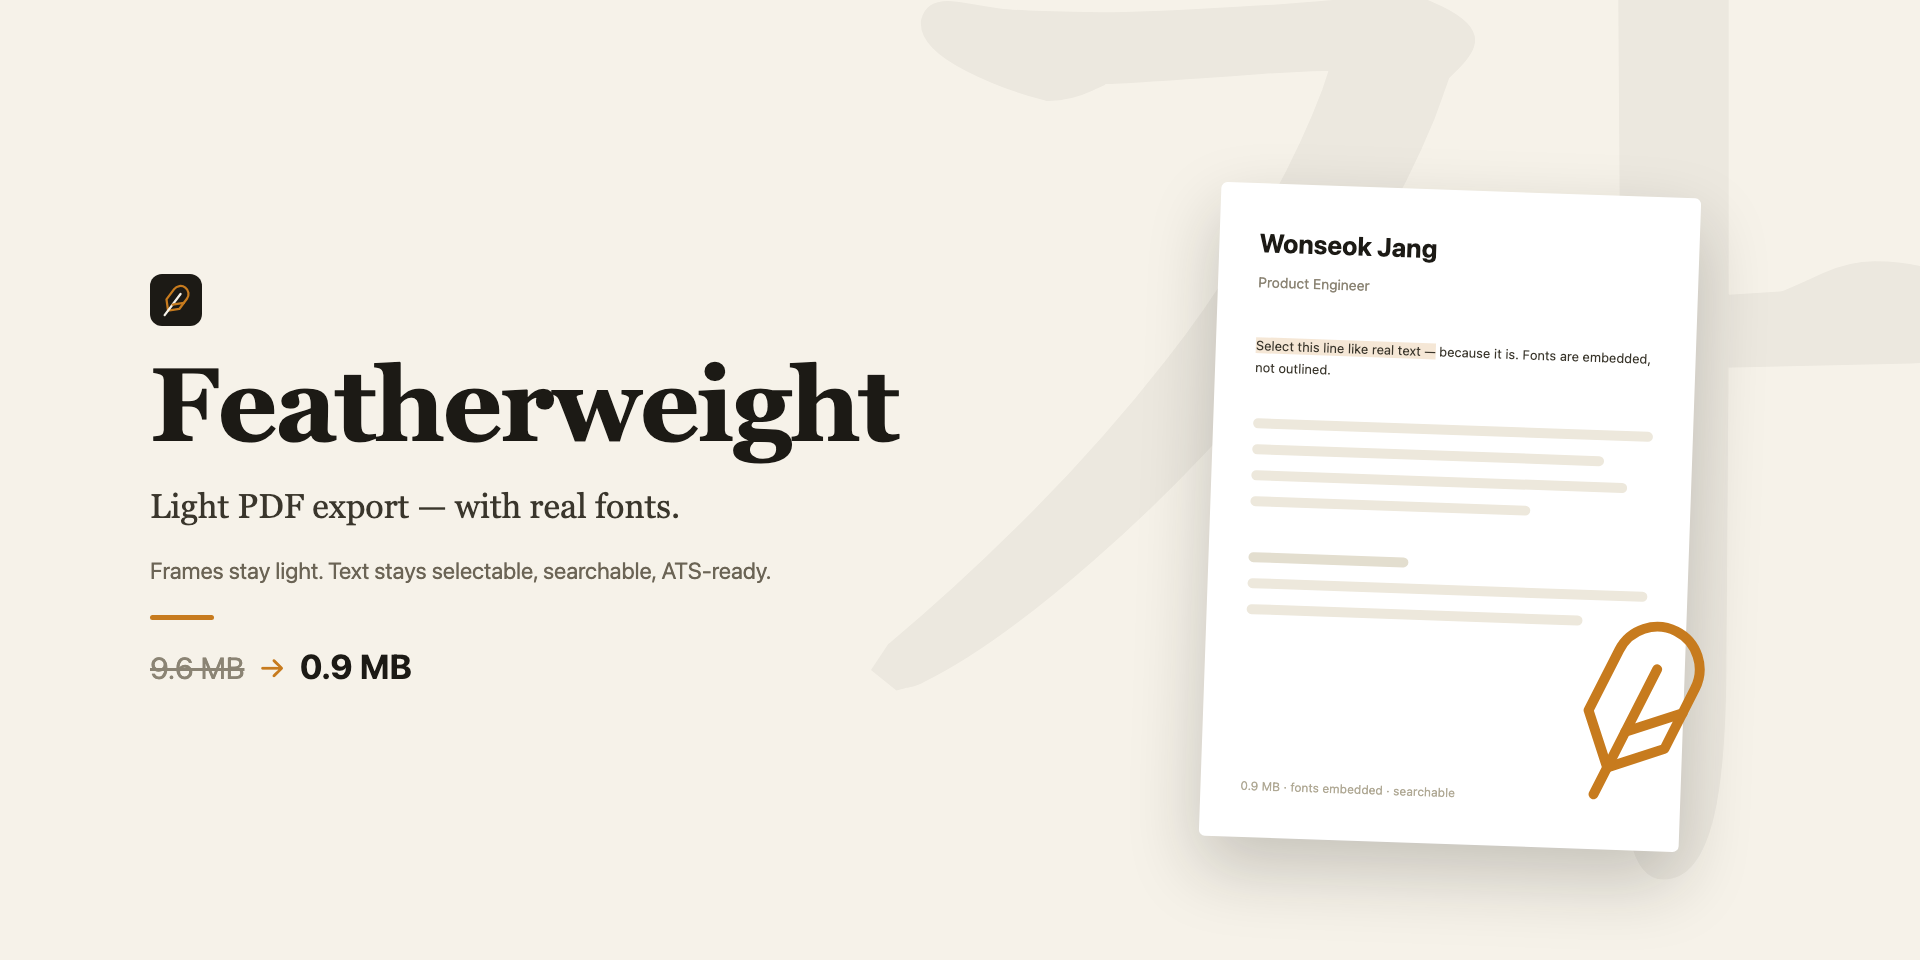
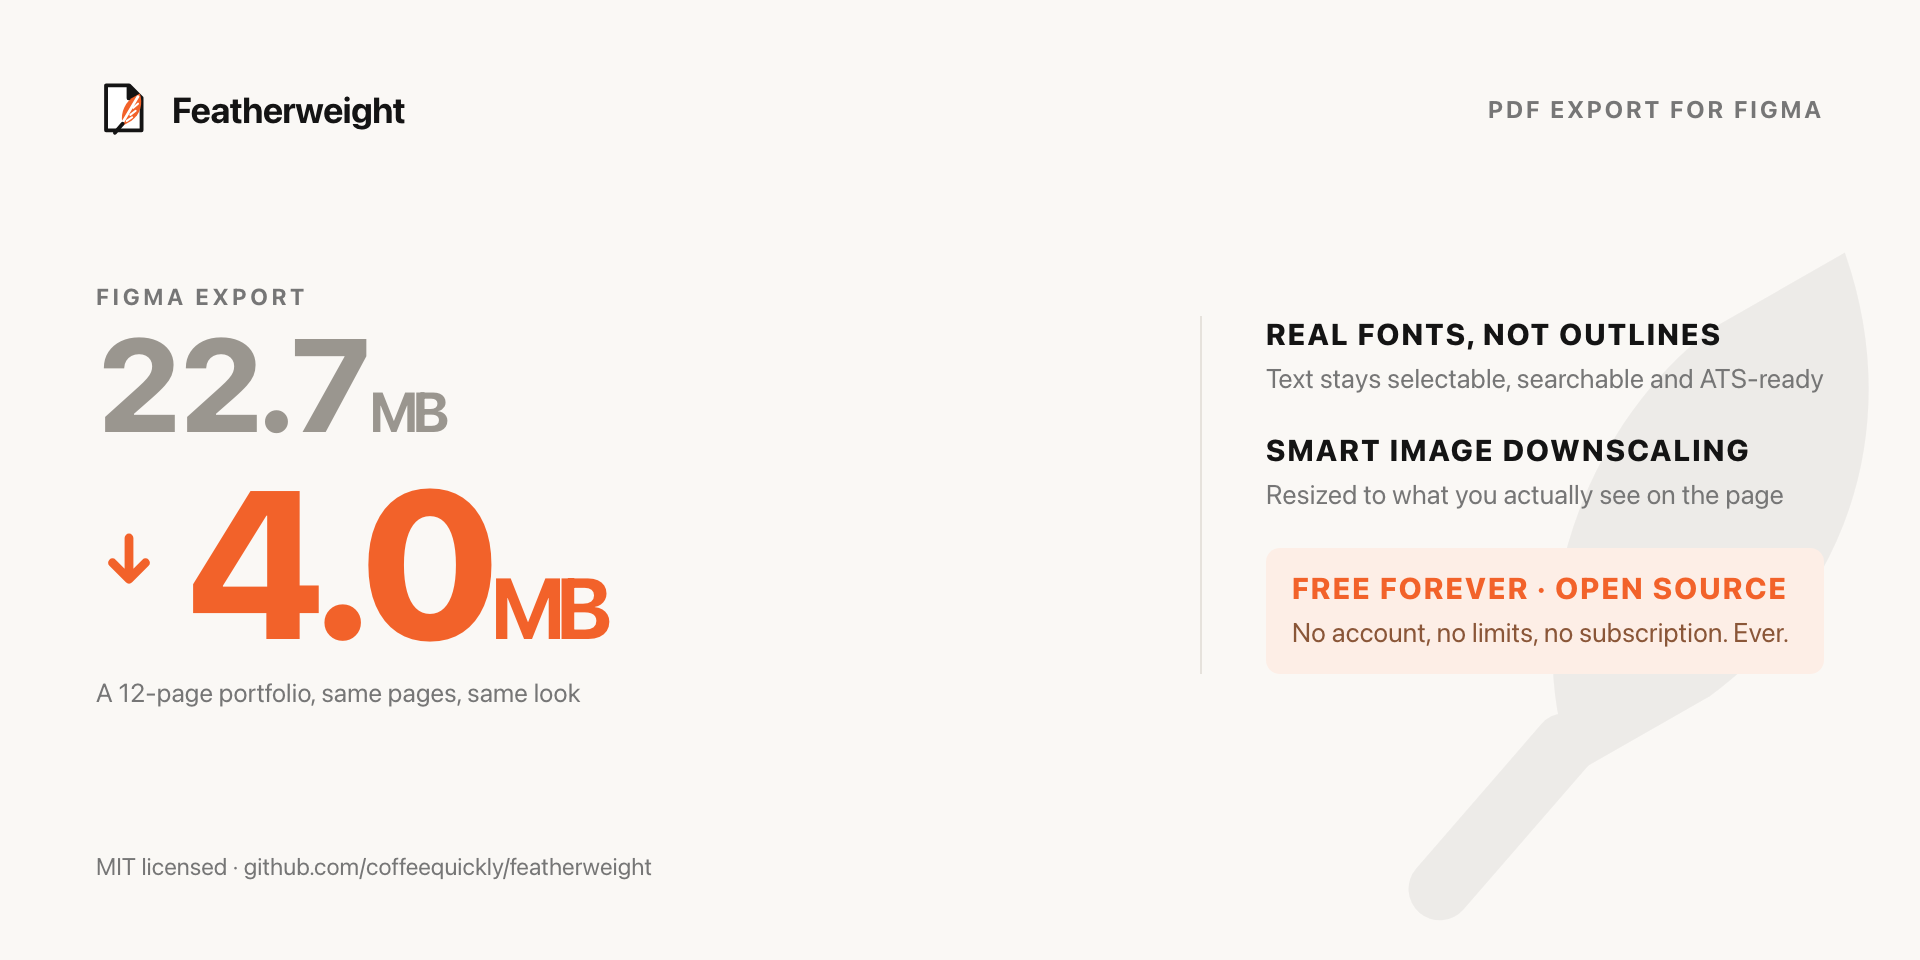
feat(brand): 아이덴티티 개편 — 문서+깃털 아이콘, 숫자 중심 커버, 최신 UI 캡처
- 아이콘: 깃털 단독은 "가볍다" 만 말하고 PDF 를 말하지 못했다. 접힌 문서 모서리를
  붙여 썸네일 크기에서도 "PDF 내보내기" 가 읽히게 한다. 비대칭 실루엣과 깃가지로
  잎사귀가 아니라 깃털로 보이게 다듬음 (32px 축소본까지 확인)
- 커버: 워드마크 대신 22.7MB → 4.0MB 를 전면에. Community 그리드에서 작게 뜰 때
  숫자가 가장 잘 읽힌다
- "Free forever · open source" 를 커버와 다크 보드에 명시 — 이 카테고리 경쟁작이
  대부분 구독형 유료라 실질적인 차별점이다
- 미디어 5장을 v1.0.5 실제 UI 로 재촬영 (영문, 경고 배너 없는 상태)
- 팔레트를 앰버에서 비비드 오렌지(#F2622A)로 — 라이트·다크 양쪽에서 잘 튄다
- 소스 HTML 을 docs/brand/src/ 에 남겨 언제든 재생성 가능하게
- ui-preview 에 ?fonts=ready 추가 (마케팅 캡처용 상태)

Claude-Session: https://claude.ai/code/session_012GnoKncjHsV7GbHB5Xy7mz

diff --git a/docs/brand/src/cover.html b/docs/brand/src/cover.html
@@ -1,0 +1,58 @@
+<!doctype html><html><head><meta charset="utf-8"><link rel="stylesheet" href="tokens.css"></head><body>
+<div style="position:relative;width:1920px;height:960px;background:var(--cream);padding:80px 96px;display:flex;flex-direction:column;justify-content:space-between;overflow:hidden">
+
+  <!-- 배경 워터마크 깃털 -->
+  <svg style="position:absolute;right:-120px;top:40px;opacity:0.05" width="900" height="900" viewBox="0 0 98 98" fill="none">
+    <g transform="translate(19 20) scale(1.05)">
+      <path d="M55 3 C61 20 56 38 41 49 L27 57 C21 42 27 22 41 11 Z" fill="#141414"/>
+      <path d="M26 54 L13 69" stroke="#141414" stroke-width="6.5" stroke-linecap="round"/>
+    </g>
+  </svg>
+
+  <div style="position:relative;display:flex;justify-content:space-between;align-items:center">
+    <div style="display:flex;align-items:center;gap:18px">
+      <svg width="58" height="58" viewBox="0 0 98 98" fill="none" style="flex:0 0 auto">
+  <path d="M17 9 H56 L77 30 V85 H17 Z" fill="#fff" stroke="#141414" stroke-width="6.5" stroke-linejoin="round"/>
+  <path d="M55 9 V31 H77" fill="#141414" stroke="#141414" stroke-width="6.5" stroke-linejoin="round"/>
+  <g transform="translate(19 20)">
+    <path d="M55 3 C61 20 56 38 41 49 L27 57 C21 42 27 22 41 11 Z" fill="#F2622A"/>
+    <path d="M52 20 L44 27 M48 32 L39 39 M42 43 L33 49" stroke="#fff" stroke-width="3.4" stroke-linecap="round"/>
+    <path d="M52 8 L24 55" stroke="#fff" stroke-width="4.6" stroke-linecap="round"/>
+    <path d="M26 54 L13 69" stroke="#141414" stroke-width="6.5" stroke-linecap="round"/>
+  </g>
+</svg>
+
+      <div style="font-size:36px;font-weight:700;letter-spacing:-0.02em;color:var(--ink)">Featherweight</div>
+    </div>
+    <div style="font-size:24px;font-weight:700;color:var(--mute);letter-spacing:0.12em">PDF EXPORT FOR FIGMA</div>
+  </div>
+
+  <div style="position:relative;display:flex;align-items:center;justify-content:space-between;gap:70px">
+    <div style="flex:0 0 auto">
+      <div style="font-size:23px;font-weight:700;letter-spacing:0.16em;color:var(--mute);margin-bottom:10px">FIGMA EXPORT</div>
+      <div class="num" style="font-size:132px;font-weight:800;line-height:0.95;color:#9A968F">22.7<span style="font-size:56px;font-weight:700">MB</span></div>
+      <div style="display:flex;align-items:center;gap:24px;margin-top:22px">
+        <svg width="66" height="66" viewBox="0 0 24 24" fill="none" stroke="#F2622A" stroke-width="3.2" stroke-linecap="round" stroke-linejoin="round"><path d="M12 4v15M6 13l6 6 6-6"/></svg>
+        <div class="num" style="font-size:210px;font-weight:800;line-height:0.88;color:var(--orange)">4.0<span style="font-size:86px;font-weight:700">MB</span></div>
+      </div>
+      <div style="font-size:26px;color:var(--mute);margin-top:24px">A 12-page portfolio, same pages, same look</div>
+    </div>
+
+    <div style="flex:0 0 auto;display:flex;flex-direction:column;gap:34px;padding-left:64px;border-left:2px solid var(--line);min-width:620px">
+      <div>
+        <div style="font-size:30px;font-weight:800;letter-spacing:0.06em;color:var(--ink)">REAL FONTS, NOT OUTLINES</div>
+        <div style="font-size:27px;color:var(--mute);margin-top:9px;line-height:1.4">Text stays selectable, searchable and ATS-ready</div>
+      </div>
+      <div>
+        <div style="font-size:30px;font-weight:800;letter-spacing:0.06em;color:var(--ink)">SMART IMAGE DOWNSCALING</div>
+        <div style="font-size:27px;color:var(--mute);margin-top:9px;line-height:1.4">Resized to what you actually see on the page</div>
+      </div>
+      <div style="background:#FDEEE6;border-radius:14px;padding:22px 26px">
+        <div style="font-size:30px;font-weight:800;letter-spacing:0.06em;color:var(--orange)">FREE FOREVER · OPEN SOURCE</div>
+        <div style="font-size:27px;color:#8A5638;margin-top:9px;line-height:1.4">No account, no limits, no subscription. Ever.</div>
+      </div>
+    </div>
+  </div>
+
+  <div style="position:relative;font-size:24px;color:var(--mute)">MIT licensed · github.com/coffeequickly/featherweight</div>
+</div></body></html>

diff --git a/docs/brand/src/m2.html b/docs/brand/src/m2.html
@@ -1,0 +1,41 @@
+<!doctype html><html><head><meta charset="utf-8"><link rel="stylesheet" href="tokens.css"></head><body>
+<div style="width:1920px;height:960px;background:var(--cream);padding:80px 96px;display:flex;flex-direction:column;justify-content:space-between">
+  <div style="display:flex;justify-content:space-between;align-items:center">
+    <div style="display:flex;align-items:center;gap:18px"><svg width="52" height="52" viewBox="0 0 98 98" fill="none" style="flex:0 0 auto">
+  <path d="M17 9 H56 L77 30 V85 H17 Z" fill="#fff" stroke="#141414" stroke-width="6.5" stroke-linejoin="round"/>
+  <path d="M55 9 V31 H77" fill="#141414" stroke="#141414" stroke-width="6.5" stroke-linejoin="round"/>
+  <g transform="translate(19 20)">
+    <path d="M55 3 C61 20 56 38 41 49 L27 57 C21 42 27 22 41 11 Z" fill="#F2622A"/>
+    <path d="M52 20 L44 27 M48 32 L39 39 M42 43 L33 49" stroke="#fff" stroke-width="3.4" stroke-linecap="round"/>
+    <path d="M52 8 L24 55" stroke="#fff" stroke-width="4.6" stroke-linecap="round"/>
+    <path d="M26 54 L13 69" stroke="#141414" stroke-width="6.5" stroke-linecap="round"/>
+  </g>
+</svg>
+<div style="font-size:32px;font-weight:700;color:var(--ink)">Featherweight</div></div>
+    <div style="font-size:23px;font-weight:700;color:var(--mute);letter-spacing:0.12em">PDF EXPORT FOR FIGMA</div>
+  </div>
+  <div style="display:flex;align-items:center;justify-content:space-between;gap:80px">
+    <div style="font-size:118px;font-weight:800;line-height:1.06;letter-spacing:-0.035em;color:var(--ink)">
+      Real fonts.<br>Smaller PDFs.<br><span style="color:var(--orange)">Better documents.</span>
+    </div>
+    <div style="position:relative;flex:0 0 auto;width:520px;height:600px">
+      <div style="position:absolute;inset:0;background:#fff;border-radius:10px;box-shadow:0 24px 60px rgba(20,20,20,.14);transform:rotate(2deg);padding:52px 46px">
+        <div style="font-size:26px;font-weight:700;color:var(--ink)">Wonseok Jang</div>
+        <div style="font-size:19px;color:var(--mute);margin-top:8px">Product Engineer</div>
+        <div style="height:30px"></div>
+        <div style="font-size:19px;line-height:1.75;color:var(--ink-2)"><span style="background:#FFD9C4">Select this line like real text</span> — because it is. Fonts are embedded, not outlined.</div>
+        <div style="height:26px"></div>
+        <div style="height:11px;background:#EFECE7;border-radius:6px;margin-bottom:13px"></div>
+        <div style="height:11px;background:#EFECE7;border-radius:6px;width:92%;margin-bottom:13px"></div>
+        <div style="height:11px;background:#EFECE7;border-radius:6px;width:78%;margin-bottom:13px"></div>
+        <div style="height:11px;background:#EFECE7;border-radius:6px;width:88%"></div>
+        <div style="position:absolute;left:46px;bottom:44px;font-size:17px;color:#B3AEA6">4.0 MB · fonts embedded · searchable</div>
+      </div>
+    </div>
+  </div>
+  <div style="display:flex;gap:64px;font-size:25px;color:var(--mute)">
+    <span><b style="color:var(--ink)">15</b> open Korean &amp; Latin fonts, embedded automatically</span>
+    <span><b style="color:var(--ink)">Never</b> substitutes a font</span>
+    <span><b style="color:var(--ink)">100%</b> local</span>
+  </div>
+</div></body></html>

diff --git a/docs/brand/src/m3.html b/docs/brand/src/m3.html
@@ -1,0 +1,33 @@
+<!doctype html><html><head><meta charset="utf-8"><link rel="stylesheet" href="tokens.css"></head><body>
+<div style="position:relative;width:1920px;height:960px;background:radial-gradient(1200px 700px at 78% 82%, #3A1B0C 0%, #0E0E0E 62%);padding:80px 96px;display:flex;flex-direction:column;justify-content:space-between;overflow:hidden">
+  <div style="display:flex;justify-content:space-between;align-items:center">
+    <div>
+      <div style="font-size:26px;font-weight:800;letter-spacing:0.16em;color:var(--orange)">FEATHERWEIGHT</div>
+      <div style="font-size:24px;color:#9B9B9B;margin-top:8px;letter-spacing:0.06em">PDF EXPORT FOR FIGMA</div>
+    </div>
+    <div style="font-size:23px;color:#7C7C7C">v1.0.5 · MIT</div>
+  </div>
+  <div>
+    <div style="font-size:132px;font-weight:800;line-height:1.05;letter-spacing:-0.035em;color:#fff">
+      Keep text <span style="color:var(--orange)">real.</span><br>Keep files <span style="color:var(--orange)">light.</span>
+    </div>
+  </div>
+  <div style="display:flex;justify-content:space-between;align-items:flex-end">
+    <div style="display:flex;gap:56px;font-size:26px;font-weight:700;letter-spacing:0.06em;color:#D8D8D8">
+      <span>REAL FONTS</span><span>SELECTABLE TEXT</span><span style="color:var(--orange)">FREE FOREVER</span>
+    </div>
+    <div style="border:2px solid #4A4A4A;border-radius:16px;padding:22px 30px;display:flex;align-items:center;gap:16px">
+      <svg width="46" height="46" viewBox="0 0 98 98" fill="none" style="flex:0 0 auto">
+  <path d="M17 9 H56 L77 30 V85 H17 Z" fill="#fff" stroke="#141414" stroke-width="6.5" stroke-linejoin="round"/>
+  <path d="M55 9 V31 H77" fill="#141414" stroke="#141414" stroke-width="6.5" stroke-linejoin="round"/>
+  <g transform="translate(19 20)">
+    <path d="M55 3 C61 20 56 38 41 49 L27 57 C21 42 27 22 41 11 Z" fill="#F2622A"/>
+    <path d="M52 20 L44 27 M48 32 L39 39 M42 43 L33 49" stroke="#fff" stroke-width="3.4" stroke-linecap="round"/>
+    <path d="M52 8 L24 55" stroke="#fff" stroke-width="4.6" stroke-linecap="round"/>
+    <path d="M26 54 L13 69" stroke="#141414" stroke-width="6.5" stroke-linecap="round"/>
+  </g>
+</svg>
+<span style="font-size:24px;color:#BDBDBD">github.com/coffeequickly/featherweight</span>
+    </div>
+  </div>
+</div></body></html>

diff --git a/docs/brand/src/m6.html b/docs/brand/src/m6.html
@@ -1,0 +1,24 @@
+<!doctype html><html><head><meta charset="utf-8"><link rel="stylesheet" href="tokens.css"></head><body>
+<div style="width:1920px;height:960px;background:var(--cream);padding:80px 96px;display:flex;align-items:center;gap:110px">
+  <div style="flex:1 1 auto;max-width:900px">
+    <div style="display:flex;align-items:center;gap:16px;margin-bottom:44px"><svg width="46" height="46" viewBox="0 0 98 98" fill="none" style="flex:0 0 auto">
+  <path d="M17 9 H56 L77 30 V85 H17 Z" fill="#fff" stroke="#141414" stroke-width="6.5" stroke-linejoin="round"/>
+  <path d="M55 9 V31 H77" fill="#141414" stroke="#141414" stroke-width="6.5" stroke-linejoin="round"/>
+  <g transform="translate(19 20)">
+    <path d="M55 3 C61 20 56 38 41 49 L27 57 C21 42 27 22 41 11 Z" fill="#F2622A"/>
+    <path d="M52 20 L44 27 M48 32 L39 39 M42 43 L33 49" stroke="#fff" stroke-width="3.4" stroke-linecap="round"/>
+    <path d="M52 8 L24 55" stroke="#fff" stroke-width="4.6" stroke-linecap="round"/>
+    <path d="M26 54 L13 69" stroke="#141414" stroke-width="6.5" stroke-linecap="round"/>
+  </g>
+</svg>
+<div style="font-size:29px;font-weight:700;color:var(--ink)">Featherweight</div></div>
+    <div style="font-size:88px;font-weight:800;line-height:1.1;letter-spacing:-0.03em;color:var(--ink)">15 open fonts,<br>embedded for you.</div>
+    <div style="width:76px;height:6px;background:var(--orange);border-radius:3px;margin:32px 0"></div>
+    <div style="font-size:31px;line-height:1.55;color:var(--ink-2)">Pretendard, Nanum, Gothic A1, Spoqa and more download automatically. Add your own TTF/OTF once — anything else keeps its original outlines.</div>
+  </div>
+  <div style="flex:0 0 auto;width:560px;display:flex;justify-content:center">
+    <div style="width:520px;border-radius:16px;overflow:hidden;box-shadow:0 28px 70px rgba(20,20,20,.18);background:#fff">
+      <img src="ui-fonts.png" style="width:520px;display:block">
+    </div>
+  </div>
+</div></body></html>

diff --git a/docs/brand/src/m5.html b/docs/brand/src/m5.html
@@ -1,0 +1,24 @@
+<!doctype html><html><head><meta charset="utf-8"><link rel="stylesheet" href="tokens.css"></head><body>
+<div style="width:1920px;height:960px;background:var(--cream);padding:80px 96px;display:flex;align-items:center;gap:110px">
+  <div style="flex:1 1 auto;max-width:900px">
+    <div style="display:flex;align-items:center;gap:16px;margin-bottom:44px"><svg width="46" height="46" viewBox="0 0 98 98" fill="none" style="flex:0 0 auto">
+  <path d="M17 9 H56 L77 30 V85 H17 Z" fill="#fff" stroke="#141414" stroke-width="6.5" stroke-linejoin="round"/>
+  <path d="M55 9 V31 H77" fill="#141414" stroke="#141414" stroke-width="6.5" stroke-linejoin="round"/>
+  <g transform="translate(19 20)">
+    <path d="M55 3 C61 20 56 38 41 49 L27 57 C21 42 27 22 41 11 Z" fill="#F2622A"/>
+    <path d="M52 20 L44 27 M48 32 L39 39 M42 43 L33 49" stroke="#fff" stroke-width="3.4" stroke-linecap="round"/>
+    <path d="M52 8 L24 55" stroke="#fff" stroke-width="4.6" stroke-linecap="round"/>
+    <path d="M26 54 L13 69" stroke="#141414" stroke-width="6.5" stroke-linecap="round"/>
+  </g>
+</svg>
+<div style="font-size:29px;font-weight:700;color:var(--ink)">Featherweight</div></div>
+    <div style="font-size:88px;font-weight:800;line-height:1.1;letter-spacing:-0.03em;color:var(--ink)">One preset is<br>all you need.</div>
+    <div style="width:76px;height:6px;background:var(--orange);border-radius:3px;margin:32px 0"></div>
+    <div style="font-size:31px;line-height:1.55;color:var(--ink-2)">Sharp, Balanced or Smallest. Open the advanced panel only when you want to fine-tune quality, scale and resolution caps.</div>
+  </div>
+  <div style="flex:0 0 auto;width:560px;display:flex;justify-content:center">
+    <div style="width:520px;border-radius:16px;overflow:hidden;box-shadow:0 28px 70px rgba(20,20,20,.18);background:#fff">
+      <img src="ui-images.png" style="width:520px;display:block">
+    </div>
+  </div>
+</div></body></html>

diff --git a/docs/brand/src/m4.html b/docs/brand/src/m4.html
@@ -1,0 +1,24 @@
+<!doctype html><html><head><meta charset="utf-8"><link rel="stylesheet" href="tokens.css"></head><body>
+<div style="width:1920px;height:960px;background:var(--cream);padding:80px 96px;display:flex;align-items:center;gap:110px">
+  <div style="flex:1 1 auto;max-width:900px">
+    <div style="display:flex;align-items:center;gap:16px;margin-bottom:44px"><svg width="46" height="46" viewBox="0 0 98 98" fill="none" style="flex:0 0 auto">
+  <path d="M17 9 H56 L77 30 V85 H17 Z" fill="#fff" stroke="#141414" stroke-width="6.5" stroke-linejoin="round"/>
+  <path d="M55 9 V31 H77" fill="#141414" stroke="#141414" stroke-width="6.5" stroke-linejoin="round"/>
+  <g transform="translate(19 20)">
+    <path d="M55 3 C61 20 56 38 41 49 L27 57 C21 42 27 22 41 11 Z" fill="#F2622A"/>
+    <path d="M52 20 L44 27 M48 32 L39 39 M42 43 L33 49" stroke="#fff" stroke-width="3.4" stroke-linecap="round"/>
+    <path d="M52 8 L24 55" stroke="#fff" stroke-width="4.6" stroke-linecap="round"/>
+    <path d="M26 54 L13 69" stroke="#141414" stroke-width="6.5" stroke-linecap="round"/>
+  </g>
+</svg>
+<div style="font-size:29px;font-weight:700;color:var(--ink)">Featherweight</div></div>
+    <div style="font-size:88px;font-weight:800;line-height:1.1;letter-spacing:-0.03em;color:var(--ink)">Reorder.<br>Exclude.<br>Export.</div>
+    <div style="width:76px;height:6px;background:var(--orange);border-radius:3px;margin:32px 0"></div>
+    <div style="font-size:31px;line-height:1.55;color:var(--ink-2)">Drag rows to reorder pages, click one to find it on canvas. One button — your PDF is named and timestamped.</div>
+  </div>
+  <div style="flex:0 0 auto;width:560px;display:flex;justify-content:center">
+    <div style="width:520px;border-radius:16px;overflow:hidden;box-shadow:0 28px 70px rgba(20,20,20,.18);background:#fff">
+      <img src="ui-export.png" style="width:520px;display:block">
+    </div>
+  </div>
+</div></body></html>

diff --git a/docs/brand/src/icon.html b/docs/brand/src/icon.html
@@ -1,0 +1,21 @@
+<!doctype html><html><head><meta charset="utf-8"><link rel="stylesheet" href="tokens.css"></head><body>
+<div style="width:128px;height:128px;background:var(--cream);display:flex;align-items:center;justify-content:center">
+  <svg width="98" height="98" viewBox="0 0 98 98" fill="none">
+    <path d="M17 9 H56 L77 30 V85 H17 Z" fill="#fff" stroke="var(--ink)" stroke-width="6.5" stroke-linejoin="round"/>
+    <path d="M55 9 V31 H77" fill="var(--ink)" stroke="var(--ink)" stroke-width="6.5" stroke-linejoin="round"/>
+    <g transform="translate(19 20)">
+      <!-- 깃털: 위는 좁고 아래로 벌어지는 비대칭 실루엣 + 오른쪽 가장자리 깃가지 -->
+      <path d="M55 3
+               C61 20 56 38 41 49
+               L27 57
+               C21 42 27 22 41 11
+               Z" fill="var(--orange)"/>
+      <!-- 깃가지 갈라짐 (오른쪽 아래) -->
+      <path d="M52 20 L44 27 M48 32 L39 39 M42 43 L33 49"
+            stroke="var(--cream)" stroke-width="3.4" stroke-linecap="round"/>
+      <!-- 깃대(rachis) — 끝에서 아래로 이어진다 -->
+      <path d="M52 8 L24 55" stroke="var(--cream)" stroke-width="4.6" stroke-linecap="round"/>
+      <path d="M26 54 L13 69" stroke="var(--ink)" stroke-width="6.5" stroke-linecap="round"/>
+    </g>
+  </svg>
+</div></body></html>

diff --git a/docs/brand/src/mark.html b/docs/brand/src/mark.html
@@ -1,0 +1,10 @@
+<svg width="SIZE" height="SIZE" viewBox="0 0 98 98" fill="none" style="flex:0 0 auto">
+  <path d="M17 9 H56 L77 30 V85 H17 Z" fill="#fff" stroke="#141414" stroke-width="6.5" stroke-linejoin="round"/>
+  <path d="M55 9 V31 H77" fill="#141414" stroke="#141414" stroke-width="6.5" stroke-linejoin="round"/>
+  <g transform="translate(19 20)">
+    <path d="M55 3 C61 20 56 38 41 49 L27 57 C21 42 27 22 41 11 Z" fill="#F2622A"/>
+    <path d="M52 20 L44 27 M48 32 L39 39 M42 43 L33 49" stroke="#fff" stroke-width="3.4" stroke-linecap="round"/>
+    <path d="M52 8 L24 55" stroke="#fff" stroke-width="4.6" stroke-linecap="round"/>
+    <path d="M26 54 L13 69" stroke="#141414" stroke-width="6.5" stroke-linecap="round"/>
+  </g>
+</svg>

diff --git a/docs/brand/src/tokens.css b/docs/brand/src/tokens.css
@@ -1,0 +1,8 @@
+:root{
+  --orange:#F2622A; --orange-soft:#FF8A4C;
+  --ink:#141414; --ink-2:#3D3D3D; --mute:#767676;
+  --cream:#FAF8F5; --line:#E6E2DC;
+}
+*{box-sizing:border-box}
+body{margin:0;font-family:-apple-system,BlinkMacSystemFont,'Segoe UI',system-ui,'Apple SD Gothic Neo',sans-serif;-webkit-font-smoothing:antialiased}
+.num{font-variant-numeric:tabular-nums;letter-spacing:-0.04em}

diff --git a/docs/RELEASE.md b/docs/RELEASE.md
@@ -139,12 +139,25 @@ Stored in `docs/brand/`, all rendered from source so they can be regenerated:
 
 | File | Use |
 |---|---|
-| `icon-128.png` | Plugin icon (128×128) |
-| `cover-1920x960.png` | Cover image |
-| `media-1.png` … `media-4.png` | Carousel: hero, export tab, presets, fonts |
+| `icon-128.png` | Plugin icon — document + feather, reads as "PDF export" at thumbnail size |
+| `cover-1920x960.png` | Cover — 22.7MB → 4.0MB, the numbers do the selling |
+| `media-1.png` | Editorial: "Real fonts. Smaller PDFs. Better documents." |
+| `media-2.png` | Dark brand: "Keep text real. Keep files light." |
+| `media-3/4/5.png` | UI: export tab, image presets, fonts tab |
 
-The tab screenshots come from `npm run ui:preview` with `?bare=1&lang=en-US`, so
-they can be re-captured whenever the UI changes.
+Everything is rendered from source in `docs/brand/src/` (plain HTML + `tokens.css`),
+so any of it can be regenerated or restyled:
+
+```bash
+# UI screenshots — all-ready state, English, no error banners
+npm run ui:preview   # then capture ?bare=1&lang=en-US&fonts=ready&tab=export
+
+# then render any src/*.html at 1920×960 with headless Chrome
+```
+
+Palette: orange `#F2622A` · ink `#141414` · cream `#FAF8F5`.
+"Free forever · open source" is called out on the cover and the dark board — it is
+a real differentiator against the paid/subscription plugins in this category.
 
 ## Release-note style
 
